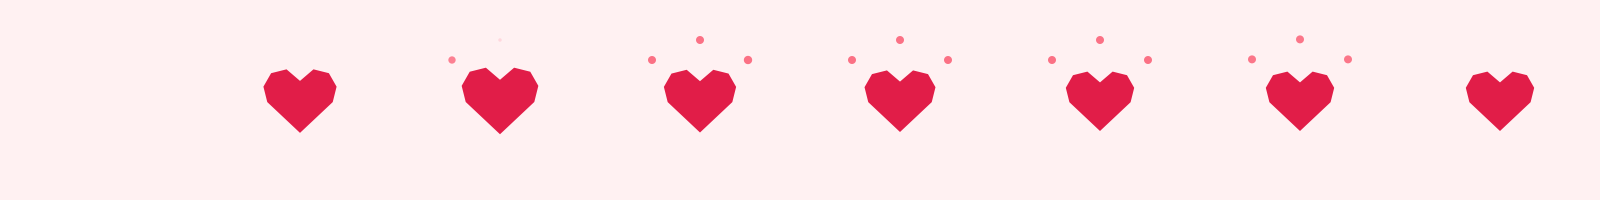
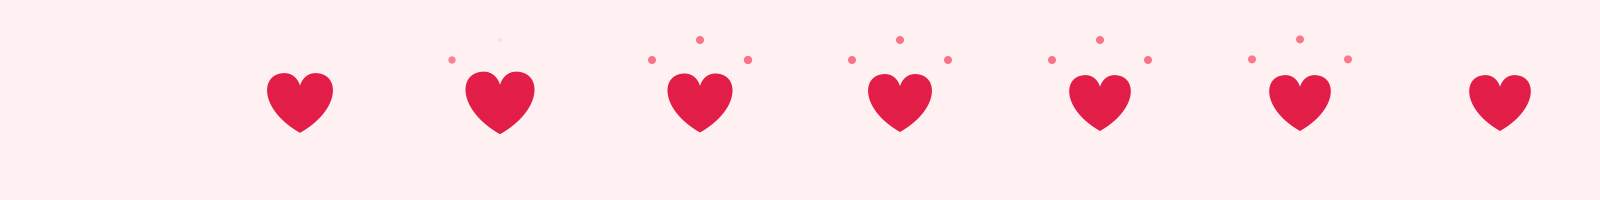
feat: SVG path data in mlibs.geom; animation documents draw any path
- mlibs.geom::parse_path_data: SVG path data (M L H V C S Q T A Z,
  absolute and relative, implicit linetos after a moveto, packed numbers
  and arc flags) to a PathData (verbs and points, a PathView); arcs become
  cubics a quarter turn at most, with mlibs.math's deterministic sin, cos
  and atan2 (mlibs.geom now depends on mlibs.math); a degenerate arc is a
  line; errors say the byte where the data stops and why.
- hanim.studio: {"path": "…"} shapes through hanim's import_path, any
  number of contours (holes); bad data located in the document.
- Examples: the like's heart and the badge's bell are real curves now.

Verified: mlibs.geom (every command, relative forms, reflections, a circle
of two arcs within 1e-4 of radius 10, located refusals), hanim.studio (a
ring with a hole, a broken path located), lint; the two strips looked at.

diff --git a/modules/base/geom/src/path_data.cpp b/modules/base/geom/src/path_data.cpp
@@ -1,0 +1,241 @@
+// SVG path data (a `d` attribute) to a path: M L H V C S Q T A Z, absolute
+// and relative; arcs become cubics with mlibs.math's deterministic functions.
+module mlibs.geom.api;
+import std;
+import mlibs.math;
+
+namespace mlibs::geom {
+
+namespace {
+struct DataReader {
+    std::string_view text;
+    std::size_t at = 0;
+    void space() {
+        while (at < text.size() && (text[at] == ' ' || text[at] == '\t' || text[at] == '\n' || text[at] == '\r' || text[at] == ',')) ++at;
+    }
+    bool number_next() {
+        space();
+        return at < text.size() && (std::isdigit(static_cast<unsigned char>(text[at])) || text[at] == '-' || text[at] == '+' || text[at] == '.');
+    }
+    std::optional<double> number() {
+        space();
+        const std::size_t begin = at;
+        if (at < text.size() && (text[at] == '-' || text[at] == '+')) ++at;
+        bool digits = false, dot = false;
+        while (at < text.size() && (std::isdigit(static_cast<unsigned char>(text[at])) || (text[at] == '.' && !dot))) {
+            if (text[at] == '.') dot = true;
+            else digits = true;
+            ++at;
+        }
+        if (!digits) {
+            at = begin;
+            return std::nullopt;
+        }
+        if (at < text.size() && (text[at] == 'e' || text[at] == 'E')) {
+            std::size_t exponent = at + 1;
+            if (exponent < text.size() && (text[exponent] == '-' || text[exponent] == '+')) ++exponent;
+            if (exponent < text.size() && std::isdigit(static_cast<unsigned char>(text[exponent]))) {
+                at = exponent;
+                while (at < text.size() && std::isdigit(static_cast<unsigned char>(text[at]))) ++at;
+            }
+        }
+        double value = 0;
+        const std::size_t from = begin + (text[begin] == '+' ? 1 : 0);
+        const auto parsed = std::from_chars(text.data() + from, text.data() + at, value);
+        if (parsed.ec != std::errc{} || !std::isfinite(value)) {
+            at = begin;
+            return std::nullopt;
+        }
+        return value;
+    }
+    // An arc's flag: 0 or 1, maybe with no separator after it.
+    std::optional<bool> flag() {
+        space();
+        if (at < text.size() && (text[at] == '0' || text[at] == '1')) return text[at++] == '1';
+        return std::nullopt;
+    }
+};
+}  // namespace
+
+std::expected<PathData, PathDataError> parse_path_data(std::string_view text, PathLimits limits) {
+    namespace det = mlibs::math::det;
+    PathData out;
+    DataReader reader{text};
+    const auto fail = [&](std::string message) { return std::unexpected(PathDataError{reader.at, std::move(message)}); };
+    double cx = 0, cy = 0, sx = 0, sy = 0;  // the current point, the subpath's start
+    double last_cx = 0, last_cy = 0;        // the last control point (smooth curves reflect it)
+    char previous = 0, command = 0;
+    bool started = false;
+    const auto point = [&](double x, double y) { out.points.push_back({static_cast<float>(x), static_cast<float>(y)}); };
+    const auto cubic = [&](double x1, double y1, double x2, double y2, double x, double y) {
+        out.verbs.push_back(PathVerb::cubic);
+        point(x1, y1);
+        point(x2, y2);
+        point(x, y);
+        last_cx = x2;
+        last_cy = y2;
+        cx = x;
+        cy = y;
+    };
+    const auto line = [&](double x, double y) {
+        out.verbs.push_back(PathVerb::line);
+        point(x, y);
+        cx = last_cx = x;
+        cy = last_cy = y;
+    };
+    while (true) {
+        reader.space();
+        if (reader.at >= text.size()) break;
+        const char c = text[reader.at];
+        if (std::isalpha(static_cast<unsigned char>(c))) {
+            command = c;
+            ++reader.at;
+        } else if (!command || command == 'Z' || command == 'z') {
+            return fail(std::format("`{}` where a command was due (M L H V C S Q T A Z)", c));
+        }
+        if (!started && std::toupper(static_cast<unsigned char>(command)) != 'M') return fail("path data begins with a moveto (M or m)");
+        char upper = 0;
+        do {
+            // Read again each time: a moveto's further pairs are linetos.
+            const bool relative = std::islower(static_cast<unsigned char>(command));
+            upper = static_cast<char>(std::toupper(static_cast<unsigned char>(command)));
+            switch (upper) {
+            case 'M': {
+                const auto x = reader.number(), y = reader.number();
+                if (!x || !y) return fail("a moveto takes x y");
+                cx = relative ? cx + *x : *x;
+                cy = relative ? cy + *y : *y;
+                sx = last_cx = cx;
+                sy = last_cy = cy;
+                out.verbs.push_back(PathVerb::move);
+                point(cx, cy);
+                started = true;
+                command = relative ? 'l' : 'L';  // pairs after a moveto are linetos
+                break;
+            }
+            case 'L': {
+                const auto x = reader.number(), y = reader.number();
+                if (!x || !y) return fail("a lineto takes x y");
+                line(relative ? cx + *x : *x, relative ? cy + *y : *y);
+                break;
+            }
+            case 'H': case 'V': {
+                const auto v = reader.number();
+                if (!v) return fail(std::format("`{}` takes a coordinate", command));
+                if (upper == 'H') line(relative ? cx + *v : *v, cy);
+                else line(cx, relative ? cy + *v : *v);
+                break;
+            }
+            case 'C': {
+                std::array<double, 6> v{};
+                for (auto& n : v) {
+                    const auto got = reader.number();
+                    if (!got) return fail("a curveto takes x1 y1 x2 y2 x y");
+                    n = *got;
+                }
+                if (relative)
+                    for (std::size_t k = 0; k < v.size(); ++k) v[k] += k % 2 ? cy : cx;
+                cubic(v[0], v[1], v[2], v[3], v[4], v[5]);
+                break;
+            }
+            case 'S': {
+                std::array<double, 4> v{};
+                for (auto& n : v) {
+                    const auto got = reader.number();
+                    if (!got) return fail("a smooth curveto takes x2 y2 x y");
+                    n = *got;
+                }
+                if (relative)
+                    for (std::size_t k = 0; k < v.size(); ++k) v[k] += k % 2 ? cy : cx;
+                const bool reflect = previous == 'C' || previous == 'S';
+                cubic(reflect ? 2 * cx - last_cx : cx, reflect ? 2 * cy - last_cy : cy, v[0], v[1], v[2], v[3]);
+                break;
+            }
+            case 'Q': case 'T': {
+                double qx = 0, qy = 0;
+                if (upper == 'Q') {
+                    const auto a = reader.number(), b = reader.number();
+                    if (!a || !b) return fail("a quadratic curveto takes x1 y1 x y");
+                    qx = relative ? cx + *a : *a;
+                    qy = relative ? cy + *b : *b;
+                } else {
+                    const bool reflect = previous == 'Q' || previous == 'T';
+                    qx = reflect ? 2 * cx - last_cx : cx;
+                    qy = reflect ? 2 * cy - last_cy : cy;
+                }
+                const auto px = reader.number(), py = reader.number();
+                if (!px || !py) return fail(std::format("`{}` takes x y", command));
+                out.verbs.push_back(PathVerb::quad);
+                point(qx, qy);
+                cx = relative ? cx + *px : *px;
+                cy = relative ? cy + *py : *py;
+                point(cx, cy);
+                last_cx = qx;
+                last_cy = qy;
+                break;
+            }
+            case 'A': {
+                const auto rx = reader.number(), ry = reader.number(), angle = reader.number();
+                const auto large = reader.flag(), sweep = reader.flag();
+                const auto px = reader.number(), py = reader.number();
+                if (!rx || !ry || !angle || !large || !sweep || !px || !py) return fail("an arc takes rx ry angle large-arc sweep x y");
+                const double x = relative ? cx + *px : *px, y = relative ? cy + *py : *py;
+                double rxa = std::abs(*rx), rya = std::abs(*ry);
+                if (rxa == 0 || rya == 0 || (x == cx && y == cy)) {  // a degenerate arc is a line (SVG F.6.6)
+                    line(x, y);
+                    break;
+                }
+                // Endpoint to centre (SVG F.6.5), then a cubic a quarter turn at most.
+                const double phi = *angle * det::pi / 180, cos_phi = det::cos(phi), sin_phi = det::sin(phi);
+                const double dx = (cx - x) / 2, dy = (cy - y) / 2;
+                const double x1 = cos_phi * dx + sin_phi * dy, y1 = -sin_phi * dx + cos_phi * dy;
+                const double lambda = x1 * x1 / (rxa * rxa) + y1 * y1 / (rya * rya);
+                if (lambda > 1) {
+                    const double grow = std::sqrt(lambda);
+                    rxa *= grow;
+                    rya *= grow;
+                }
+                const double numerator = rxa * rxa * rya * rya - rxa * rxa * y1 * y1 - rya * rya * x1 * x1;
+                const double denominator = rxa * rxa * y1 * y1 + rya * rya * x1 * x1;
+                double factor = std::sqrt(std::max(0.0, numerator / denominator));
+                if (*large == *sweep) factor = -factor;
+                const double ccx = factor * rxa * y1 / rya, ccy = -factor * rya * x1 / rxa;
+                const double mx = cos_phi * ccx - sin_phi * ccy + (cx + x) / 2, my = sin_phi * ccx + cos_phi * ccy + (cy + y) / 2;
+                const double start = det::atan2((y1 - ccy) / rya, (x1 - ccx) / rxa);
+                double turn = det::atan2((-y1 - ccy) / rya, (-x1 - ccx) / rxa) - start;
+                if (*sweep && turn < 0) turn += 2 * det::pi;
+                if (!*sweep && turn > 0) turn -= 2 * det::pi;
+                const int pieces = std::max(1, static_cast<int>(std::ceil(std::abs(turn) / (det::pi / 2) - 1e-9)));
+                const double step = turn / pieces;
+                const double handle = 4.0 / 3.0 * det::sin(step / 4) / det::cos(step / 4);
+                // The ellipse's point at an angle, and its derivative there.
+                const auto on = [&](double t) {
+                    const double ex = rxa * det::cos(t), ey = rya * det::sin(t), tx = -rxa * det::sin(t), ty = rya * det::cos(t);
+                    return std::array<double, 4>{mx + cos_phi * ex - sin_phi * ey, my + sin_phi * ex + cos_phi * ey, cos_phi * tx - sin_phi * ty,
+                                                 sin_phi * tx + cos_phi * ty};
+                };
+                for (int piece = 0; piece < pieces; ++piece) {
+                    const auto from = on(start + step * piece), to = on(start + step * (piece + 1));
+                    const bool last = piece + 1 == pieces;
+                    cubic(from[0] + handle * from[2], from[1] + handle * from[3], to[0] - handle * to[2], to[1] - handle * to[3], last ? x : to[0],
+                          last ? y : to[1]);
+                }
+                break;
+            }
+            case 'Z':
+                out.verbs.push_back(PathVerb::close);
+                cx = last_cx = sx;
+                cy = last_cy = sy;
+                break;
+            default: return fail(std::format("`{}` is not a path command (M L H V C S Q T A Z)", command));
+            }
+            previous = upper;
+            if (out.verbs.size() > limits.max_verbs || out.points.size() > limits.max_points) return fail("the path is over its budget");
+        } while (upper != 'Z' && reader.number_next());
+    }
+    if (!started) return fail("no path: path data begins with a moveto (M or m)");
+    if (const auto checked = inspect_path(out.view(), limits); !checked) return fail(std::string(describe(checked.error().code).name));
+    return out;
+}
+
+}  // namespace mlibs::geom

diff --git a/modules/base/geom/tests/path_test.cpp b/modules/base/geom/tests/path_test.cpp
@@ -48,5 +48,42 @@ int main(int argc,char** argv) {
         const auto contours=PathReader::make({valid,points},{.max_contours=0});check(!contours && contours.error().code==PathError::contour_budget);
         check(PathReader::make({})->info().contours==0);
     });
+    suite.test("SVG path data: every command, absolute and relative, numbers as SVG writes them", [] {
+        using namespace mlibs::geom;
+        const auto square = parse_path_data("M10 10 H50 V50 H10 Z");
+        check(square && square->verbs.size() == 5 && square->points.back() == Point{10, 50}, "a square of H and V");
+        const auto relative = parse_path_data("m10 10 l40 0 l0 40 l-40 0 z");
+        check(relative && relative->points == square->points, "relative is the same square");
+        const auto repeated = parse_path_data("M0 0 10 0 10 10");  // pairs after a moveto are linetos
+        check(repeated && repeated->verbs == std::vector<PathVerb>{PathVerb::move, PathVerb::line, PathVerb::line}, "implicit linetos");
+        const auto numbers = parse_path_data("M.5.5-.5-.5L1e1,2E0");
+        check(numbers && numbers->points.size() == 3 && numbers->points[1] == Point{-.5f, -.5f} && numbers->points[2] == Point{10, 2}, "packed numbers");
+        const auto smooth = parse_path_data("M0 0 C10 0 20 10 20 20 S30 40 40 40");
+        check(smooth && smooth->points[4] == Point{20, 30}, "S reflects the last control point about the current one");
+        const auto quadratic = parse_path_data("M0 0 Q10 10 20 0 T40 0");
+        check(quadratic && quadratic->verbs.back() == PathVerb::quad && quadratic->points[3] == Point{30, -10}, "T reflects the quadratic's control");
+        // A circle of radius 10 about (20, 20) as two half arcs: every point of every cubic on it, within a curve's error.
+        const auto circle = parse_path_data("M10 20 A10 10 0 1 1 30 20 A10 10 0 1 1 10 20 Z");
+        check(circle.has_value(), circle ? "" : circle.error().message);
+        if (circle) {
+            check(std::ranges::count(circle->verbs, PathVerb::cubic) == 4, "a quarter turn a cubic");
+            double worst = 0;
+            for (std::size_t k = 1; k + 1 < circle->points.size(); k += 3) {
+                const auto p = circle->points[k + 2];
+                worst = std::max(worst, std::abs(std::hypot(p.x - 20.0, p.y - 20.0) - 10));
+            }
+            check(worst < 1e-4, std::format("the arcs' ends on the circle: {}", worst));
+            check(circle->points[6] == Point{30, 20}, "the first half ends exactly where it said");
+        }
+        const auto flags = parse_path_data("M0 0a5 5 0 1010 0");
+        check(flags && flags->points.back() == Point{10, 0}, "flags without separators");
+        const auto line = parse_path_data("M0 0 A0 5 0 0 1 10 0");
+        check(line && line->verbs.back() == PathVerb::line, "a degenerate arc is a line");
+        for (const auto& [bad, at] : std::array{std::pair{std::string_view("L10 10"), std::size_t{1}}, std::pair{std::string_view("M0 0 X5"), std::size_t{6}},
+                                                std::pair{std::string_view("M0 0 C1 2 3"), std::size_t{11}}, std::pair{std::string_view(""), std::size_t{0}}}) {
+            const auto refused = parse_path_data(bad);
+            check(!refused && refused.error().offset == at, std::format("`{}` refused at {}: {}", bad, at, refused ? "accepted" : std::format("{} ({})", refused.error().message, refused.error().offset)));
+        }
+    });
     return suite.run(argc,argv);
 }

diff --git a/modules/projects/hanim/studio/src/studio.cpp b/modules/projects/hanim/studio/src/studio.cpp
@@ -20,7 +20,19 @@ std::vector<ShapeSegment> ellipse_arcs(double rx, double ry) {
 }
 
 // A shape's one closed contour, about its origin; and its lowest point (where a drop lands).
-std::expected<std::pair<Contour, double>, std::string> contour_of(const ShapeSpec& shape) {
+std::expected<std::pair<std::vector<Contour>, double>, std::string> contour_of(const ShapeSpec& shape) {
+    if (shape.kind == ShapeKind::path) {
+        const auto data = mlibs::geom::parse_path_data(shape.data);
+        if (!data) return std::unexpected(data.error().message);
+        auto imported = import_path(data->view());
+        if (!imported) return std::unexpected(imported.error().text());
+        std::vector<Contour> contours;
+        for (auto& contour : imported->contours) contours.push_back(std::move(contour.geometry));
+        double bottom = 0;
+        for (const auto& point : data->points) bottom = std::max(bottom, static_cast<double>(point.y));
+        if (contours.empty()) return std::unexpected(std::string("the path draws nothing"));
+        return std::pair{std::move(contours), bottom};
+    }
     Vec2 start{};
     std::vector<ShapeSegment> segments;
     double bottom = 0;
@@ -67,7 +79,7 @@ std::expected<std::pair<Contour, double>, std::string> contour_of(const ShapeSpe
     }
     auto contour = Contour::copy({start, segments, true});
     if (!contour) return std::unexpected(std::string("its outline could not be made"));
-    return std::pair{std::move(*contour), bottom};
+    return std::pair{std::vector<Contour>{std::move(*contour)}, bottom};
 }
 
 // The objects a step animates (a morph's target is not one).
@@ -281,7 +293,7 @@ std::expected<Studio, Problems> Studio::open(const Document& document) {
         // One part an object, the same id for all: a morph pairs parts by id.
         PartDescription part{.id = "shape",
                              .local = {.tx = spec.at.x, .ty = spec.at.y, .sx = spec.scale.x, .sy = spec.scale.y, .rotate = spec.rotation},
-                             .contours = {contour->first},
+                             .contours = contour->first,
                              .fill = spec.fill,
                              .stroke = spec.stroke};
         if (falling.contains(spec.id)) part.deformers.push_back(deform::squash({0, contour->second}));

diff --git a/modules/projects/hanim/studio/src/document.cpp b/modules/projects/hanim/studio/src/document.cpp
@@ -164,7 +164,7 @@ public:
     ShapeSpec shape(const Json& value, const std::string& where) {
         ShapeSpec result;
         if (!value.is_object() || value.size() != 1) {
-            problem(where, "one shape: {\"rect\": [w, h]}, {\"circle\": r}, {\"ellipse\": [rx, ry]}, {\"polygon\": [[x, y], …]} or {\"star\": {…}}");
+            problem(where, "one shape: {\"rect\": [w, h]}, {\"circle\": r}, {\"ellipse\": [rx, ry]}, {\"polygon\": [[x, y], …]}, {\"star\": {…}} or {\"path\": \"M…\"}");
             return result;
         }
         const auto first = value.begin();
@@ -197,6 +197,15 @@ public:
                 for (std::size_t index = 0; index < body.size(); ++index)
                     if (auto point = pair(body[index], std::format("{}/{}", at, index), -1e5, 1e5)) result.points.push_back(*point);
             }
+        } else if (kind == "path") {
+            result.kind = ShapeKind::path;
+            if (!body.is_string() || body.get<std::string>().empty()) {
+                problem(at, "a path is SVG path data: \"M0 0 L10 0 …\"");
+            } else {
+                result.data = body.get<std::string>();
+                if (const auto parsed = mlibs::geom::parse_path_data(result.data); !parsed)
+                    problem(at, std::format("path data stops at character {}: {}", parsed.error().offset, parsed.error().message));
+            }
         } else if (kind == "star") {
             result.kind = ShapeKind::star;
             if (!body.is_object()) {
@@ -209,7 +218,7 @@ public:
                 if (result.inner >= result.radius) problem(at + "/inner", "a star's inner radius is less than its outer");
             }
         } else {
-            problem(at, std::format("`{}` is not a shape (rect, circle, ellipse, polygon, star)", kind));
+            problem(at, std::format("`{}` is not a shape (rect, circle, ellipse, polygon, star, path)", kind));
         }
         return result;
     }

diff --git a/modules/projects/hanim/studio/tests/studio_test.cpp b/modules/projects/hanim/studio/tests/studio_test.cpp
@@ -139,6 +139,17 @@ int main(int argc, char** argv) {
         check(waiting && !find(*waiting->state(hanim::seconds(.2)), "a").drawn && find(*waiting->state(hanim::seconds(.2)), "b").drawn &&
                   find(*waiting->state(hanim::seconds(.6)), "a").drawn,
               "on the stage from its entrance");
+        // A path shape: SVG path data, arcs and all; bad data said where it stops.
+        const auto drawn = studio::read(R"({"version": 1, "objects": [{"id": "ring", "shape": {"path": "M-10 0 A10 10 0 1 1 10 0 A10 10 0 1 1 -10 0 Z M-5 0 A5 5 0 1 0 5 0 A5 5 0 1 0 -5 0 Z"}, "fill": "#fff", "at": [50, 50]}],
+            "program": {"do": "pulse", "object": "ring"}})");
+        auto ring = drawn ? studio::Studio::open(*drawn) : std::unexpected(drawn.error());
+        check(ring.has_value(), ring ? "" : studio::to_text(ring.error()));
+        if (ring) {
+            const auto& state = find(*ring->state(hanim::seconds(0)), "ring");
+            check(std::abs(state.high.x - state.low.x - 20) < .01, std::format("a ring 20 across: {}", state.high.x - state.low.x));
+        }
+        const auto broken_path = studio::read(R"({"version": 1, "objects": [{"id": "a", "shape": {"path": "M0 0 L5"}, "fill": "#fff"}], "program": {"do": "pulse", "object": "a"}})");
+        check(!broken_path && says(broken_path.error(), "/objects/0/shape/path", "stops at character"), broken_path ? "accepted" : studio::to_text(broken_path.error()));
         // A recipe's fields are its own.
         const auto wrong = studio::read(R"({"version": 1, "objects": [{"id": "a", "shape": {"circle": 5}, "fill": "#fff"}],
             "program": {"do": "rise_in", "object": "a", "distnace": 10}})");

diff --git a/modules/projects/hanim/studio/README.md b/modules/projects/hanim/studio/README.md
@@ -14,7 +14,7 @@ Every answer is one JSON object; exit 0 done, 1 the document or the work failed 
 ## The document (`<name>.animation.omui.json`, version 1)
 
 - `size` `[w, h]` and `background` `"#rrggbb"`: the stage.
-- `objects`: each an `id` (lowercase, digits, `-`, `_`), a `shape` — `{"rect": {"size": [w, h], "radius": r}}` (or `{"rect": [w, h]}`), `{"circle": r}`, `{"ellipse": [rx, ry]}`, `{"polygon": [[x, y], …]}`, `{"star": {"points": 5, "outer": r, "inner": r}}`, about its origin — a `fill` and/or a `stroke` (`{"color", "width"}`), where it stands (`at`), `rotation` (degrees), `scale` (a factor or `[x, y]`). `hidden`: drawn only while it moves (a morph's target).
+- `objects`: each an `id` (lowercase, digits, `-`, `_`), a `shape` — `{"rect": {"size": [w, h], "radius": r}}` (or `{"rect": [w, h]}`), `{"circle": r}`, `{"ellipse": [rx, ry]}`, `{"polygon": [[x, y], …]}`, `{"star": {"points": 5, "outer": r, "inner": r}}`, `{"path": "M0 30 C-42 6 … Z"}` (SVG path data, arcs included, several contours for holes), about its origin — a `fill` and/or a `stroke` (`{"color", "width"}`), where it stands (`at`), `rotation` (degrees), `scale` (a factor or `[x, y]`). `hidden`: drawn only while it moves (a morph's target).
 - `program`: one step. `{"do": …}` is one of
   - `sequence`, `parallel` (`items`), `stagger` (`items`, `step` seconds), `wait` (`duration`), `loop` (`item`, `count`, `alternate`), `marker` (`name`);
   - `move_to` / `move_by` (`to` / `by` `[x, y]`), `rotate_to` / `rotate_by` (`degrees`), `scale_to` / `scale_by` (`to` / `by`), `fill_to` (`color`), `fade_to` (`opacity`), `morph` (`into` another object's shape) — each with `duration` (default 0.5 s) and `ease` (`"in_out_cubic"` default, `"out_back"`, `"cubic-bezier(.2, 0, 0, 1)"`, `"steps(4, jump-end)"` …) or a `spring` (`stiffness`, `damping`, `mass`: as long as it takes to settle);
